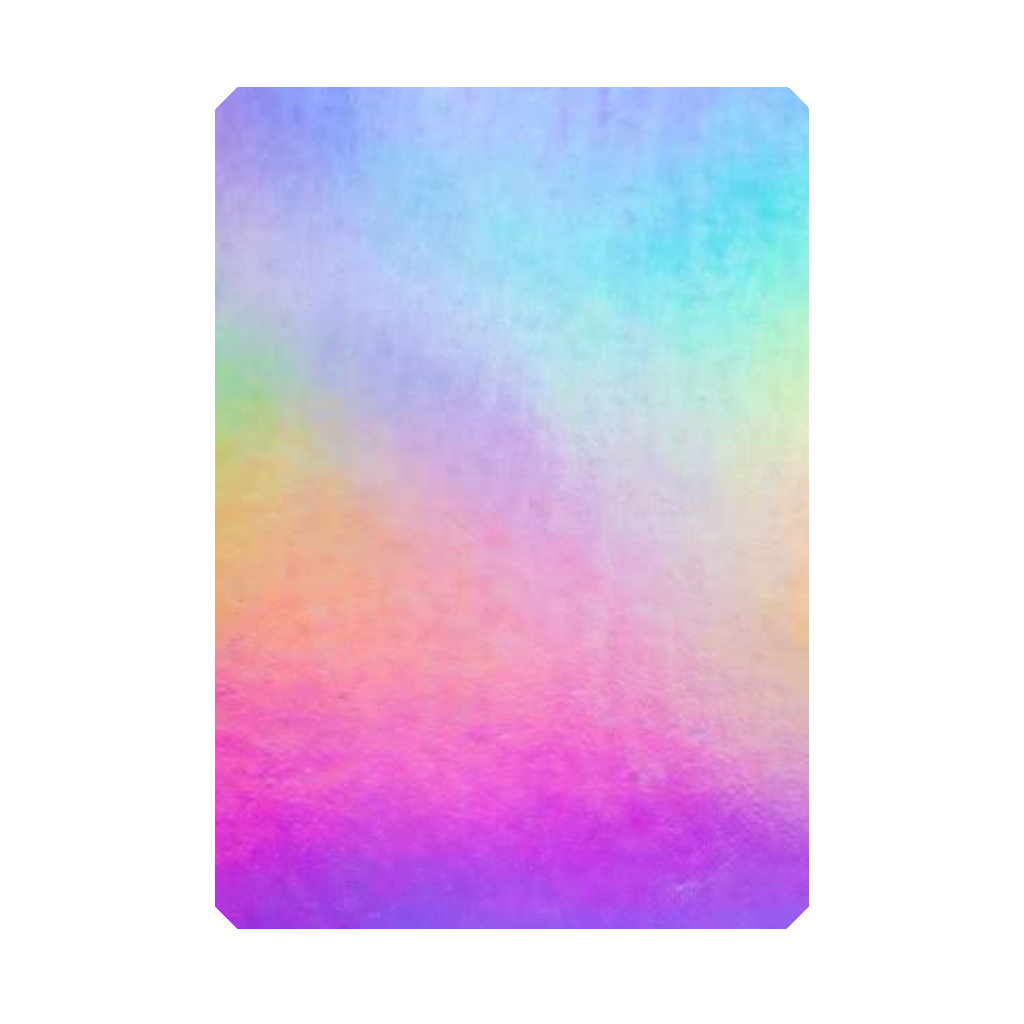
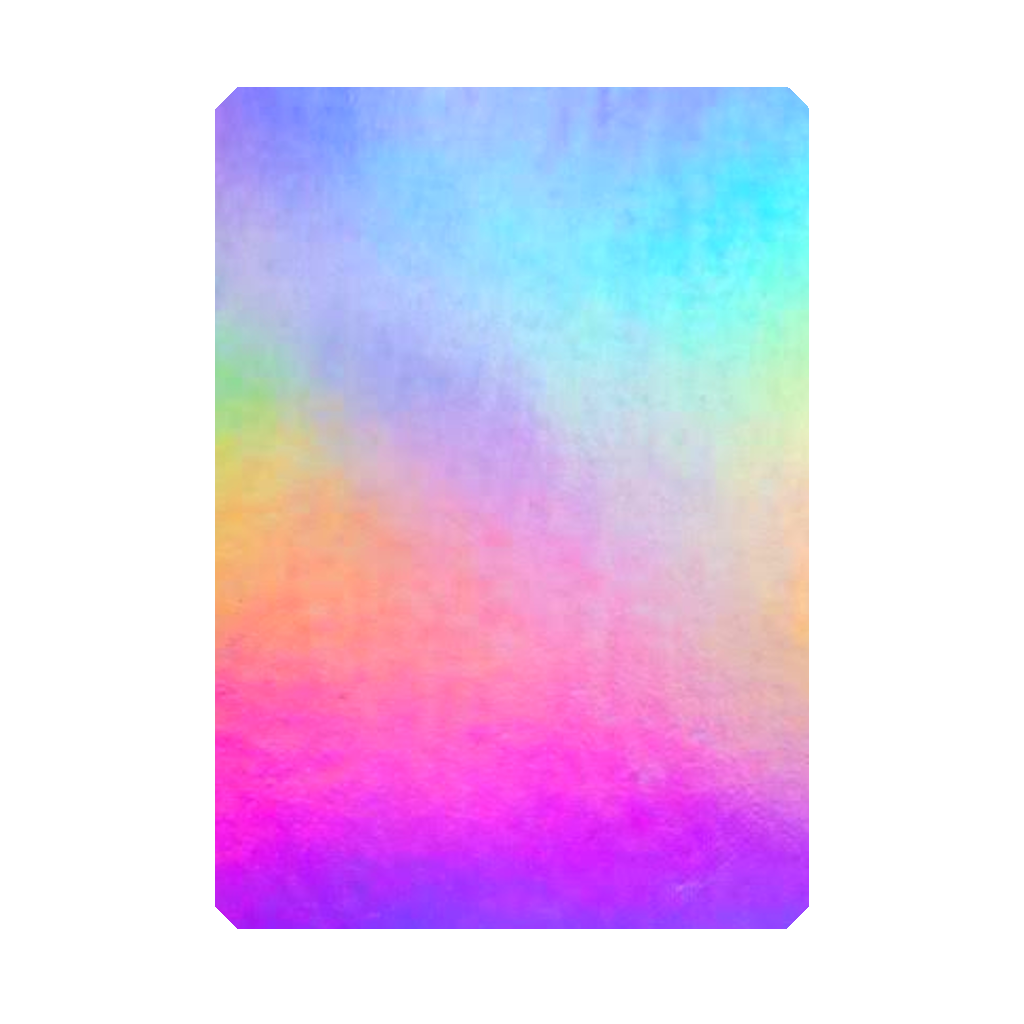
foil finish fix

diff --git a/CustomMarvelSnap/scripts/cardDesign.js b/CustomMarvelSnap/scripts/cardDesign.js
@@ -225,11 +225,11 @@ async function generatecard(
   h *= scale * zoom;
   let x = ((1024 - w) / 2) * scale + offset[0] * scale;
   let y = ((1024 - h) / 2) * scale + 3 * scale + offset[1] * scale;
-    ctx.drawImage(backgroundImg, x, y, w, h);
+  ctx.drawImage(backgroundImg, x, y, w, h);
   // Apply Finish
   if (finish === "foil") {
     turnContextBlackAndWhite(ctx);
-    ctx.globalCompositeOperation = "multiply";
+    ctx.globalCompositeOperation = "hard-light";
     const foilImageMask = await getPreloadedImage("../res/img/finishes/foil.png");
     ctx.drawImage(foilImageMask, 0, 0, size, size);
     ctx.globalCompositeOperation = "source-in";
